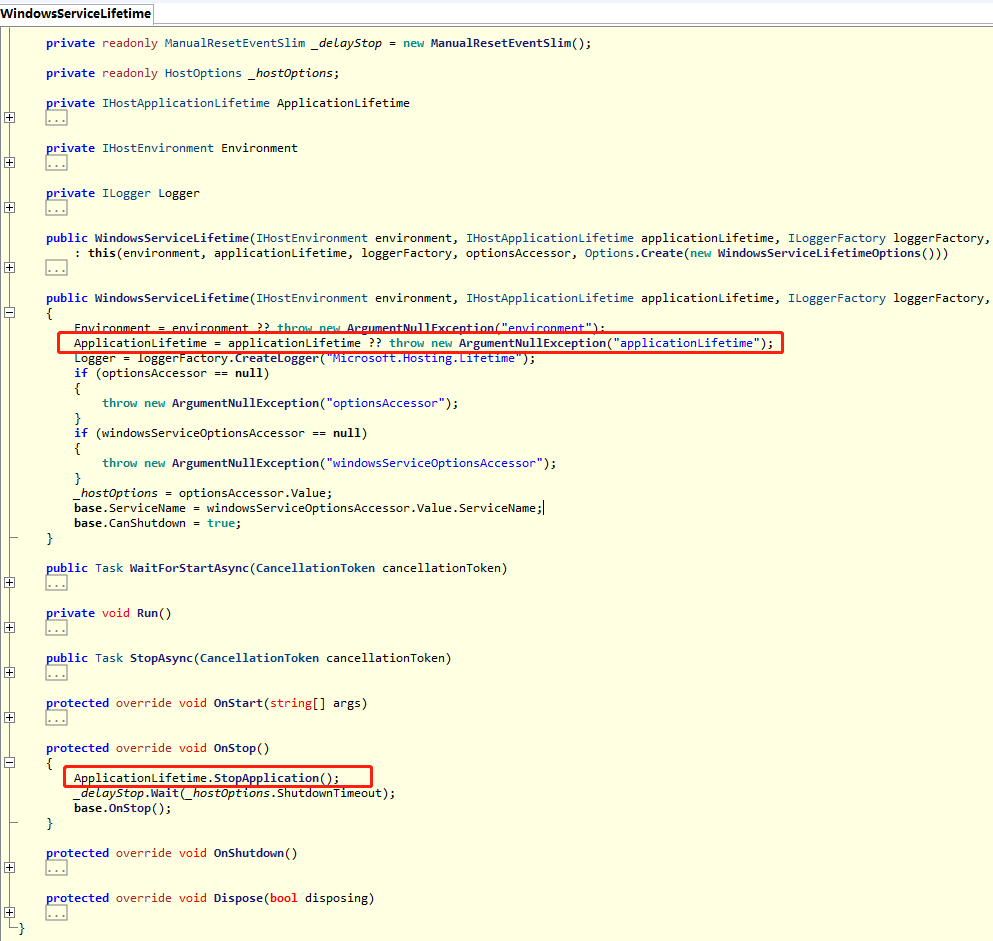
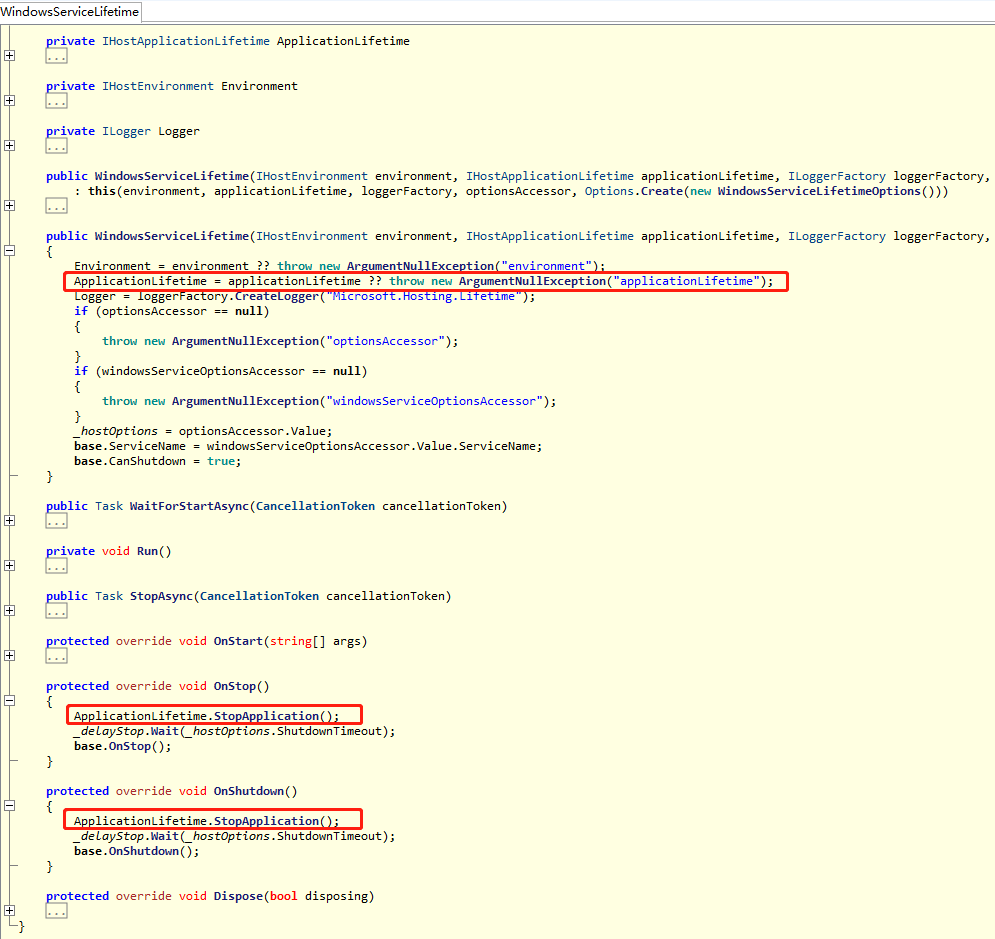
modify

Changed region(s): [[0.0, 0.0, 1.0, 0.9574]]

diff --git a/_drafts/2021-06-15-worker-service-as-windows-services.md b/_drafts/2021-06-15-worker-service-as-windows-services.md
@@ -376,17 +376,17 @@ services.AddSingleton<IHostLifetime, WindowsServiceLifetime>();
 
 ![WindowsServiceLifetime Class](https://ittranslator.cn/assets/images/202106/WindowsServiceLifetime.png)
 
-您会发现 *WindowsServiceLifetime* 类的 `OnShutdown` 方法中调用了 `ApplicationLifetime.StopApplication()`；而它的基类 *ServiceBase* 中，当服务停止时调用了 `OnShutdown` 方法。也就是说，在 Windows 服务停止的时候已经调用了 `ApplicationLifetime.StopApplication()`。这就是我们在 *Worker* 中手动调用 `StopApplication` 失效的原因。
+您会发现 *WindowsServiceLifetime* 类的 `OnStop` 和 `OnShutdown` 方法中调用了 `ApplicationLifetime.StopApplication()`；而它的基类 *ServiceBase* 中，当服务停止时调用了 `OnStop` 和 `OnShutdown` 方法。也就是说，在 Windows 服务停止的时候已经调用了 `ApplicationLifetime.StopApplication()`。这就是我们在 *Worker* 中手动调用 `StopApplication` 失效的原因。
 
 找到了原因，我们应该怎么解决呢？
 
 功夫不负有心人，在认真研究了 *BackgroundService* 、*WindowsServiceLifetime* 和 *ApplicationLifetime* 的源代码后，终于找到了解决方法。既然 *WindowsServiceLifetime* 中调用了 `StopApplication`，那我就换别的方法呗。
 
-注意到 *ApplicationLifetime* 的属性 `CancellationToken ApplicationStopping`，它的注释是：
+注意到 *ApplicationLifetime* 的属性 `ApplicationStopping`（类型为 *CancellationToken*），它的注释是：
 
 > Triggered when the application host is performing a graceful shutdown. Request may still be in flight. Shutdown will block until this event completes.
 
-所以我们可以为它注册一个取消时执行的委托操作。修改一下 *Worker* 类中的 `ExecuteAsync` 方法：
+所以，我们可以向它注册一个取消时执行的委托操作。修改一下 *Worker* 类中的 `ExecuteAsync` 方法：
 
 ```csharp
 protected override async Task ExecuteAsync(CancellationToken stoppingToken)
